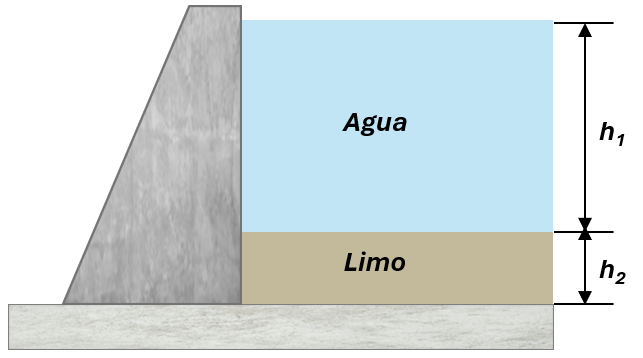
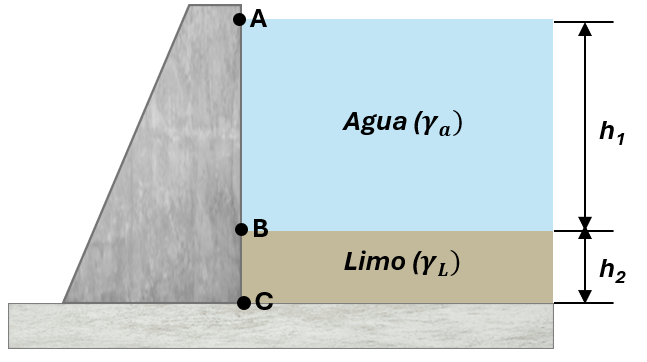
Total_Teoría

diff --git a/Class_Teoria.py b/Class_Teoria.py
@@ -1123,6 +1123,29 @@ conceptuales = [
         respuesta_P2 = "",
         ),
 
+    Theory(#3
+        code = 6200030, 
+        no_pregunta = 3,
+        topic = "Armaduras",
+        subtopic = "Marcos",
+        enunciado ="""
+        Para determinar las reacciones de los apoyos de la viga articulada en $D$ se realiza el siguiente procedimiento:
+        
+        1. Se divide la viga en la articulación $D$.
+        2. Se toma la sección de la izquierda de la viga para hallar la reacción vertical en el apoyo $A$.
+        3. Se analiza la sección de la derecha para hallar las reacciones en los apoyos $B$ y $C$.
+
+        Con base en este procedimiento, se puede afirmar que:
+        """, 
+        opcion_1 = "Es incorrecto. No es posible hallar las reacciones de los apoyos, ya que hay más incógnitas (4) que ecuaciones disponibles (3). ",
+        opcion_2 = "Es correcto. La articulación $D$ permite separar la viga en dos secciones y resolverlas por separado. ",
+        opcion_3 = "Es incorrecto. Antes del paso 3, se deben hallar las reacciones internas en la articulación $D$; de lo contrario, la sección de la derecha no puede resolverse.",
+        opcion_4 = "Es incorrecto. En el paso 1 no se debe dividir la viga, ya que la articulación no lo permite. Se debe realizar un análisis global de equilibrio.",
+        opcion_correcta = "Es incorrecto. Antes del paso 3, se deben hallar las reacciones internas en la articulación $D$; de lo contrario, la sección de la derecha no puede resolverse.",
+        respuesta_P1 = "La estructura presenta más incógnitas (4 reacciones en total) que ecuaciones disponibles (3 ecuaciones de equilibrio), por lo tanto, es necesario dividir la viga en la articulación $D$ para resolverla por partes. Sin embargo, el procedimiento omite un paso antes de analizar la sección de la derecha, el cual es determinar las reacciones (vertical y horizontal) de la articulación $D$.",
+        respuesta_P2 = "",
+        ),
+
 
 #------------------------------------------------------  Centroides-----------------------------------------------------------
 #-------------------------------------------------       71000#0         ---------------------------------------------------
@@ -1598,6 +1621,35 @@ conceptuales = [
         respuesta_P2 = "",
         ),
 
+    Theory(#9
+        code = 8200090, 
+        no_pregunta = 9,
+        topic = "Fuerzas distribuidas",
+        subtopic = "Presión hidrostática",
+        enunciado = """
+        Considere el siguiente sistema. La presión en los puntos $A$, $B$ y $C$ es:
+
+        $A = 0$                 
+        $B = \\gamma_a \\cdot h_1$                
+        $C = \\gamma_L \\cdot (h_1+h_2)$                
+
+        Es correcto afirmar que:
+        """, 
+        opcion_1 = "La presión en el punto $C$ está mal definida, ya que no considera la contribución del agua sobre el limo.",
+        opcion_2 = "La presión en el punto $B$ es incorrecta, pues debería incluir también la contribución del limo.",
+        opcion_3 = "La presión en el punto $A$ es incorrecta, ya que está en contacto con el agua.",
+        opcion_4 = "La presión está correctamente definida en todos los puntos.",
+        opcion_correcta = "La presión en el punto $C$ está mal definida, ya que no considera la contribución del agua sobre el limo.",
+        respuesta_P1 = """
+        La presión en un punto sumergido se calcula acumulando la presión generada por todos los estratos de fluido que están sobre él.
+
+        - En $A$, la presión es $0$ porque está en la superficie libre del agua.            
+        - En $B$, la presión es $\\gamma_a \\cdot h_1$, ya que está sumergido en agua a una profundidad $h_1$.              
+        - En $C$, se deben considerar las dos capas: $h_1$ de agua y $h_2$ de limo. Por lo tanto, la presión correcta es $\\gamma_a \\cdot h_1 + \\gamma_L \\cdot h_2$. La expresión dada en el enunciado para $C$ solo considera el limo, lo cual es incorrecto.
+        """,
+        respuesta_P2 = "",
+        ),
+
 
 #---------------------------------------------- Fuerzas distribuidas -------------------------------
 #------------------------------------------------ Empuje de suelo ----------------------------------
@@ -1632,8 +1684,32 @@ conceptuales = [
         respuesta_P1 = "Se requiere instalar un anclaje cuando el momento generado por la presión del suelo es mayor que el generado por la presión del agua, ya que en ese caso el muro tiende a volcarse hacia el lado del agua. En este caso, es necesario instalar un anclaje del lado del suelo para contrarrestar ese momento y mantener el equilibrio del sistema.",
         respuesta_P2 = "",
         ),
-    
 
+    Theory(#3
+        code = 8300030, 
+        no_pregunta = 3,
+        topic = "Fuerzas distribuidas",
+        subtopic = "Empuje de suelo",
+        enunciado ="""
+        El Factor de Seguridad $(F_S)$ se define como $F_S=\\dfrac{{M_R}}{{M_A}}$; donde el Momento Resistente $(M_R)$ y el Momento Actuante $(M_A)$ se calculan con respecto al punto $A$. Para determinar el factor de seguridad del siguiente sistema se realiza el siguiente procedimiento:
+        
+        1. Se calcula la fuerza del empuje del suelo.
+        2. Se calcula el momento que realiza el empuje del suelo $(M_R)$ con respecto al punto $A$.
+        3. Se calcula el peso del muro de contención.
+        4. Se calcula el momento que realiza el peso del muro de contención $(M_A)$ con respecto al punto $A$.
+        5. Se calcula el factor de seguridad.
+
+        Con base en este procedimiento, se puede afirmar que:
+        """, 
+        opcion_1 = "Es correcto. El empuje del suelo es la fuerza resistente, y el peso del muro es la carga actuante.",
+        opcion_2 = "Es incorrecto. El empuje del suelo y el peso del muro generan el mismo tipo de momento, por lo tanto no se puede definir un factor de seguridad.",
+        opcion_3 = "Es incorrecto. El empuje del suelo representa la carga actuante, y el peso del muro representa la carga resistente. Se invirtieron $M_R$ y $M_A$.",
+        opcion_4 = "Es correcto. El orden de los cálculos no altera el resultado final del factor de seguridad.",
+        opcion_correcta = "Es incorrecto. El empuje del suelo representa la carga actuante, y el peso del muro representa la carga resistente. Se invirtieron $M_R$ y $M_A$.",
+        respuesta_P1 = "El procedimiento define incorrectamente al momento resistente y al momento actuante. El empuje del suelo es la causa del posible volcamiento del muro, por lo tanto, genera el momento actuante $(M_A)$. En cambio, el peso del muro impide el volcamiento, por lo que genera el momento resistente $(M_R)$.",
+        respuesta_P2 = "",
+        ),
+    
 
 #--------------------------------------------------- Fuerzas internas -------------------------------------------------------
 #-------------------------------------------------       91000##0         ---------------------------------------------------

diff --git a/Interface.py b/Interface.py
@@ -1450,6 +1450,8 @@ if authenticate_user():
                     st.image(AR_teoria_preguntas[1], width=250) 
                 if pregunta_no == 2:
                     st.image(AR_teoria_preguntas[2], width=350) 
+                if pregunta_no == 3:
+                    st.image(AR_teoria_preguntas[8], width=500) 
             if subtopic == "Centroides":
                 if pregunta_no == 1:
                     st.image(CT_teoria_preguntas[0], width=350)
@@ -1470,6 +1472,8 @@ if authenticate_user():
                     st.image(FD_teoria_preguntas[11], width=900)
                 if pregunta_no == 8:
                     st.image(FD_teoria_preguntas[12], width=350)
+                if pregunta_no == 9:
+                    st.image(FD_teoria_preguntas[13], width=500)
             if subtopic == "Vigas":
                 if pregunta_no == 1:
                     st.image(FD_teoria_preguntas[0], width=520)
@@ -1486,6 +1490,8 @@ if authenticate_user():
                     st.image(FD_teoria_preguntas[5], width=420)
                 if pregunta_no == 2:
                     st.image(FD_teoria_preguntas[6], width=720)
+                if pregunta_no == 3:
+                    st.image(FD_teoria_preguntas[14], width=400)
             if subtopic == "Fuerzas internas":
                 if pregunta_no == 2:
                     st.image(FI_teoria_preguntas[0], width=600)

diff --git a/Imagenes.py b/Imagenes.py
@@ -506,6 +506,9 @@ FD_teoria_preguntas = [#Fuerzas distribuidas
 "./Imagenes/Teoria_Preguntas/FD/PH/T_FD_PH_7.png", #[11]
 "./Imagenes/Teoria_Preguntas/FD/PH/T_FD_PH_8.png", #[12]
 "./Imagenes/Teoria_Preguntas/FD/PH/T_FD_PH_9.png", #[13]
+
+#Empuje de suelo
+"./Imagenes/Teoria_Preguntas/FD/ES/T_FD_ES_3.png", #[14]
 ]
 
 FI_teoria_preguntas=[#Fuerzas internas
@@ -538,7 +541,6 @@ CT_teoria_respuestas =[#Centroides
 
 FD_teoria_respuestas =[#Fuerzas distribuidas
 "./Imagenes/Teoria_Respuestas/FD/PH/RT_FD_PH_6.png", #[0] 
-"./Imagenes/Teoria_Respuestas/FD/PH/RT_FD_PH_9.png", #[1] 
 ]
 
 FI_teoria_respuestas =[#Fuerzas internas
